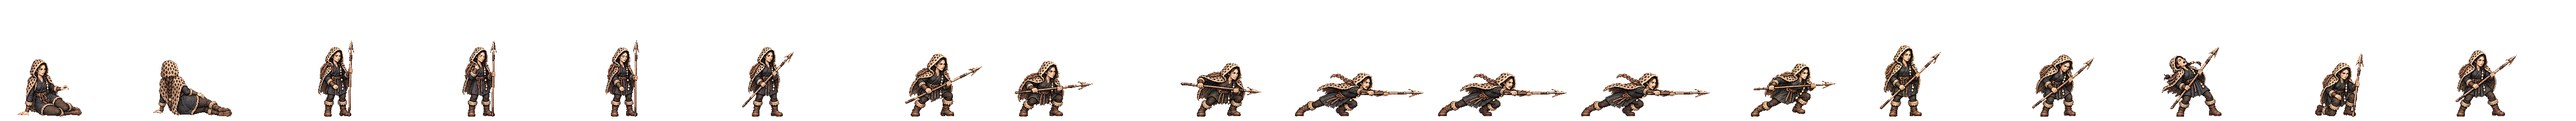
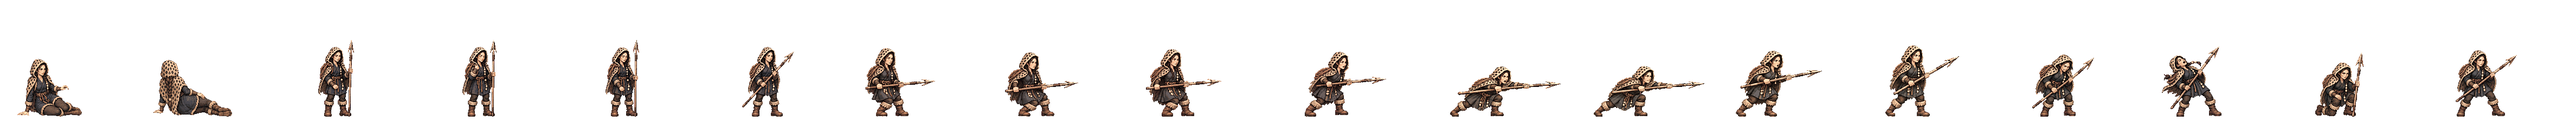
창 찌르기를 thrust3 로 퍼뜨림 (6) 북옥저 물범 — b 를 한 번 다시 받아 뒷발이 박힘 · 인수인계에 퍼뜨리기 절
Claude-Session: https://claude.ai/code/session_01TRiuN7s6aDfSnaHxrkctmU

Changed region(s): [[0.3114, 0.375, 0.7786, 0.9688]]

diff --git a/tools/sprite-kit/anim-harness.py b/tools/sprite-kit/anim-harness.py
@@ -99,7 +99,7 @@ HEROES = {
     'haesol': dict(hit=True, strip='gen-haesol', atk='thrust', src='thrust3', backfoot=True, atkk=0.94, actw=264, atk8=True, act=True, legacy=(('a', 2), ('a', 3), ('b', 3), ('b', 4))),   # 우시산 해솔(가는 창 · 가슴 M) · 여덟째 묶음
     'soenun': dict(hit=True, strip='gen-soenun', atk='thrust', src='thrust3', backfoot=True, actw=264, atk8=True, act=True, legacy=(('a', 2), ('a', 3), ('b', 3), ('b', 4))),   # 관나 쇠눈(비늘 갑옷 · 창) · 여덟째 묶음
     'mdallae': dict(hit=True, strip='gen-mdallae', atk='thrust', src='thrust3', backfoot=True, atkk=0.96, actw=264, atk8=True, act=True, legacy=(('a', 2), ('a', 3), ('b', 3), ('b', 4))),   # 목지 달래 · 열째 묶음(API)
-    'mulbeom': dict(hit=True, strip='gen-mulbeom', atk='thrust', src='thrust2', actw=264, refoot=True, atk8=True, act=True, legacy=(('a', 2), ('a', 3), ('b', 3), ('b', 4)), cells8=[('a', 1), ('a', 2), ('a', 3), ('a', 4), ('a', 4), ('a', 4), ('b', 3), ('b', 4)]),   # 북옥저 물범(작살) · 열째 묶음(API)
+    'mulbeom': dict(hit=True, strip='gen-mulbeom', atk='thrust', src='thrust3', backfoot=True, actw=264, atk8=True, act=True, legacy=(('a', 2), ('a', 3), ('b', 3), ('b', 4))),   # 북옥저 물범(작살) · 열째 묶음(API)
     'mulsae': dict(hit=True, strip='gen-mulsae', atk='thrust', src='thrust3', backfoot=True, actw=264, atk8=True, act=True, legacy=(('a', 2), ('a', 3), ('b', 3), ('b', 4))),   # 사로 물새 · 열째 묶음(API)
     'nuri': dict(hit=True, strip='gen-nuri', atk='thrust', src='thrust3', backfoot=True, atkk=0.96, actw=264, atk8=True, act=True, legacy=(('a', 2), ('a', 3), ('b', 3), ('b', 4))),   # 구가 누리 · 열째 묶음(API)
     'bihwa': dict(hit=True, strip='gen-base-w-25-bihwa-priestess', atk='cast', actw=264, atk8=True, act=True, legacy=(('a', 1), ('b', 3), ('b', 3), ('b', 4))),   # 비화 무녀(방울 지팡이 · 가슴 M) · 무녀 묶음(11-25 밤) · 시전 cast(방울 흔들고 손바닥 밀기)
